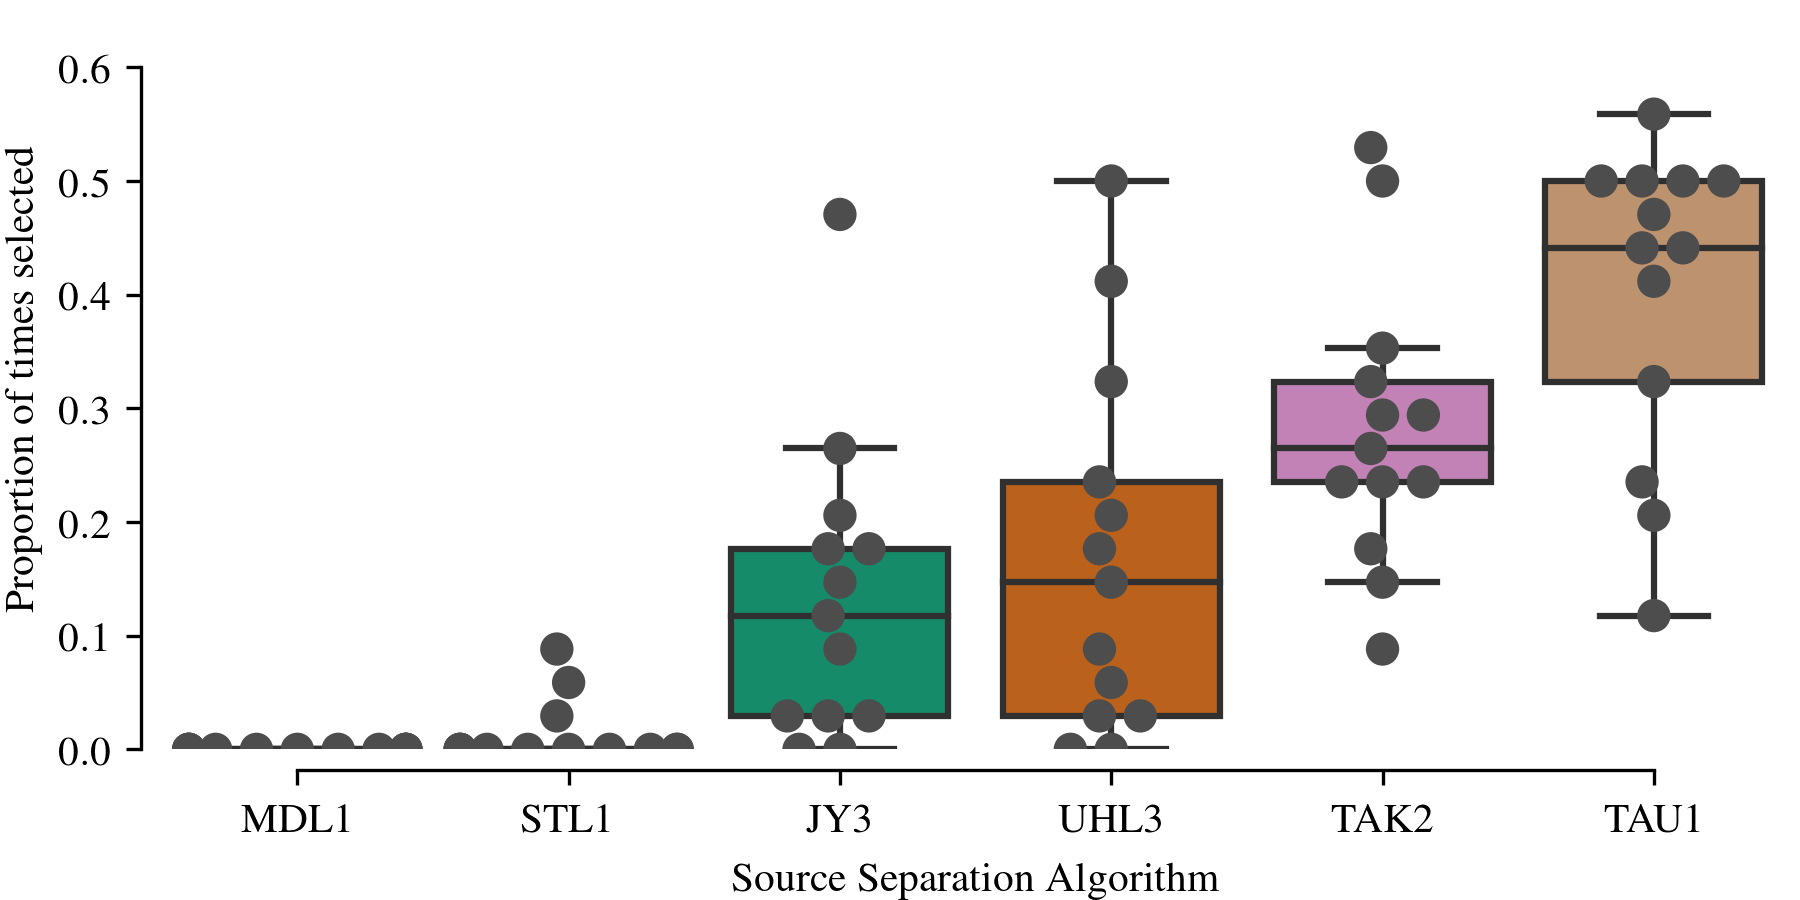
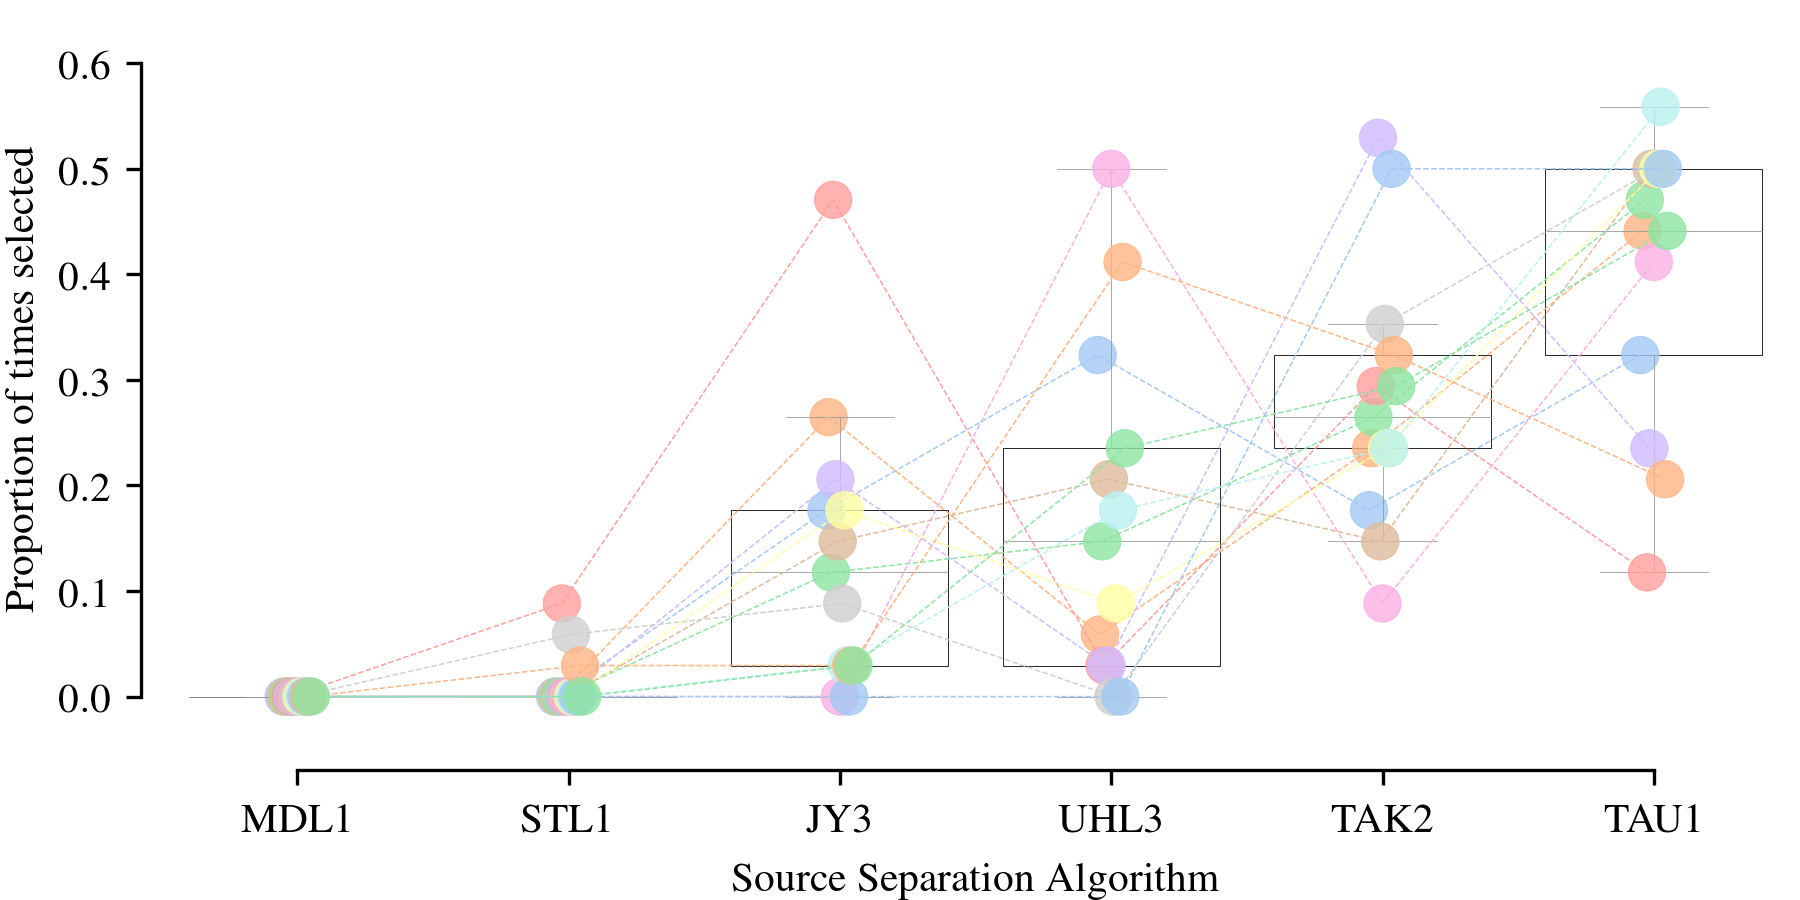
Final changes to poster

diff --git a/site/_pages/poster.md b/site/_pages/poster.md
@@ -52,11 +52,12 @@ SUBJECTIVE SELECTION OF THE BEST ALGORITHM
 -  The MUS(ic) separation task compares algorithms aimed at
   recovering instrument stems from a stereo mix
 
-- Separating the *singing-voice* from music is difficult, but
-  deep-learning methods show significant improvements over traditional
+- This work focuses on _singing-voice separation_
+
+- Deep-learning methods show significant improvements over traditional
   techniques such as NMF and ICA
 
-- Source separation introduces distortions and artifacts, which degrades the
+- Source separation introduces distortions and artifacts, which degrade the
   perceived sound quality
 
 <div class='refs' markdown="1">
@@ -67,13 +68,13 @@ SUBJECTIVE SELECTION OF THE BEST ALGORITHM
 
 <div class='panel' id='intro2' markdown="1">
 
-# How to evaluate separation performance?
+# How To Evaluate Separation Performance?
 
 Few researchers conduct listening assessments, but instead rely on objective
 toolkits to quantify separation performance:
 
-- <span style='color: #1b656d'>BSS Eval</span><sup>2</sup>: Blind Source Separation Evaluation
-- <span style='color: #1b656d'>PEASS</span><sup>3</sup>: Perceptual Evaluation methods for Audio Source Separation
+- <span style='color: #1b656d'>BSS Eval</span> <sup>2</sup>: Blind Source Separation Evaluation
+- <span style='color: #1b656d'>PEASS</span> <sup>3</sup>: Perceptual Evaluation methods for Audio Source Separation
 
 Both approaches based on distortion decomposition between estimated source
 $$\hat{S}$$ and target source $$S$$:
@@ -132,7 +133,7 @@ true sources:
 
 <div markdown="1">
 ![]({{ site.url }}/images/algo_boxplots.png)
-*Boxplots showing the number of times each algorithm was selected for a given
+*Strip and box plots showing the number of times each algorithm was selected for a given
 song, normalised by the total number of listeners*
 </div>
 
@@ -151,9 +152,9 @@ separated by song*
 # Conclusions
 
 - <span style='color: #1b656d'>**TAU1**</span> performed best, followed by <span style='color: #1b656d'>**TAK2**</span>
-- Listeners' selection of the best algorithm depended on song (see paper)
-- SDR of the BSS Eval toolkit showed the strongest predictive ability
-- More controlled assessments, involving trained listeners, targeting the *magnitude* of overall separation quality are needed
-- Further experiments needed to assess objective metrics of overall quality
+- Listeners' selection of the best algorithm depended on song (see <span style='color: #1b656d'>**JY3**</span> above)
+- SDR of the BSS Eval toolkit gave the highest correlations (higher SDR = more votes)
+- More controlled assessments, involving trained listeners, using scaling procedures to quantify overall separation quality are needed
+- Further work needed to assess/refine objective metrics of overall separation quality
 
 </div>
